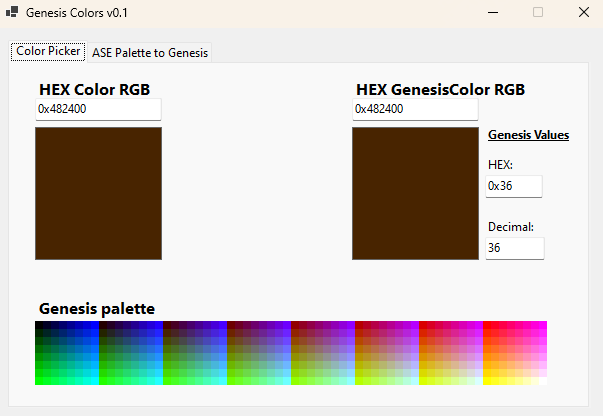
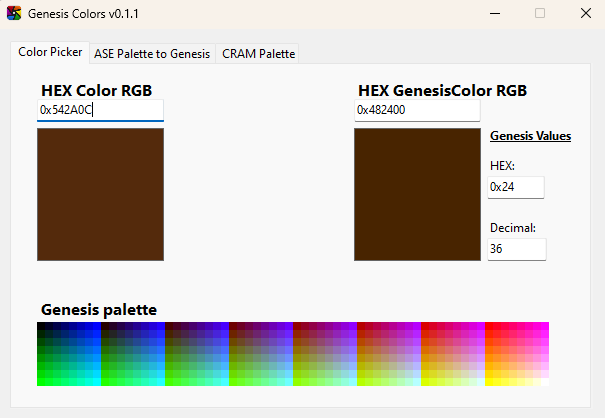
add new mode to README

diff --git a/README.md b/README.md
@@ -1,8 +1,13 @@
 # Genesis Colors
 Genesis Colors is a tool that allows you to view the color compression of the Sega Genesis console.
 
-It has two modes: one lets you view the Sega Genesis color palette and see the color conversion it will perform on a specific RGB color. In the other, you can load an ASE file (from ASESprite or Libresprite) to see how the palette is converted, as well as detect color clashes that may occur during compression to 9-bit color.
+It has three modes: 
+ - one lets you view the Sega Genesis color palette and see the color conversion it will perform on a specific RGB color. 
+ - You can load an ASE file (from ASESprite or Libresprite) to see how the palette is converted, as well as detect color clashes that may occur during compression to 9-bit color.
+ - You can load a CRAM file (exported from the Gens emulator or others) to view the complete palette loaded in CRAM.
 
 ![alt text](https://github.com/rlopezll/GenesisColors/blob/main/screenshot0.png)
 
 ![alt text](https://github.com/rlopezll/GenesisColors/blob/main/screenshot1.png)
+
+![alt text](https://github.com/rlopezll/GenesisColors/blob/main/screenshot2.png)
